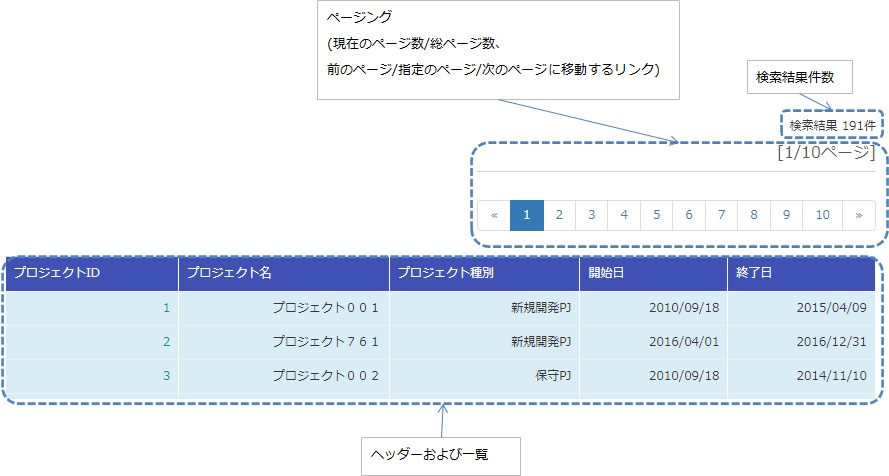
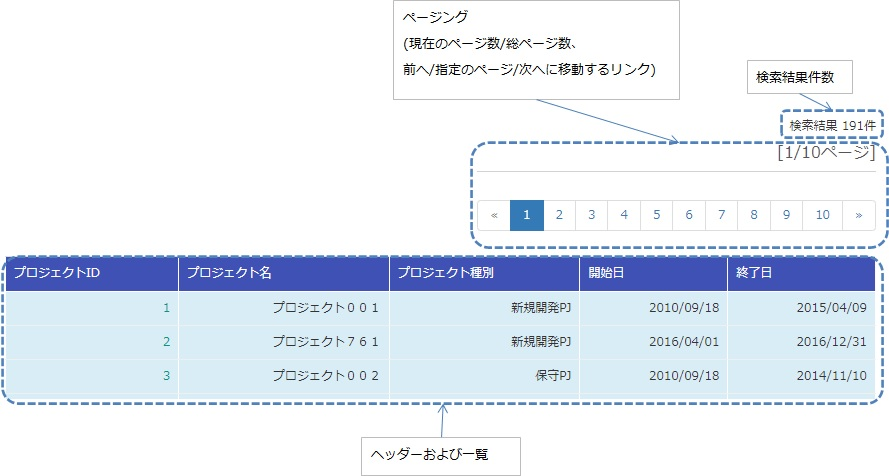
ページングの画面要素の説明を修正しました。前へ、次へ、に表示を統一しました。

diff --git a/ja/examples/03/index.rst b/ja/examples/03/index.rst
@@ -234,7 +234,7 @@ resultCountFragment属性の指定例を下記に示す。
 ページングの画面要素                       説明
 ====================================== ==========================================================================================
 現在のページ番号                          useCurrentPageNumber属性にtrueを指定した場合に表示される。
-前のページへ、次のページへ                  現在のページ番号から各画面要素が示すページに遷移可能な場合は、サブミット可能な状態で表示される。遷移不可の場合はラベルで表示される。
+最初、前へ、次へ、最後                     現在のページ番号から各画面要素が示すページに遷移可能な場合は、サブミット可能な状態で表示される。遷移不可の場合はラベルで表示される。「最初」はuseFirstSubmit属性にtrueを指定した場合に表示され、「最後」はuseLastSubmit属性にtrueを指定した場合に表示される。
 ページ番号                               ページ番号全体(1..n)は、総ページ数が2以上の場合のみ表示される。
 ====================================== ==========================================================================================
 
@@ -242,7 +242,7 @@ resultCountFragment属性の指定例を下記に示す。
 全ての属性の詳細については、 :ref:`ListSearchResult_Tag` を参照。
 
 * 各画面要素の使用有無
-* 各画面要素のラベル(前のページへ、次のページへなど)
+* 各画面要素のラベル(最初、次へなど)
 
  * 現在のページ番号はJSPフラグメントによる変更
  * ページ番号はページ番号をラベルに使用するため変更不可
@@ -273,7 +273,7 @@ resultCountFragment属性の指定例を下記に示す。
 
 |
 
-次に、検索結果が10件に減少した状態で、「前のページへ」を選択した場合のページングの表示と表示内容の説明を示す。\
+次に、検索結果が10件に減少した状態で、「前へ」を選択した場合のページングの表示と表示内容の説明を示す。\
 2ページ目に対する検索結果としてページングの各画面要素が表示される。
 
 |
@@ -287,8 +287,8 @@ resultCountFragment属性の指定例を下記に示す。
 ページングの画面要素                       表示内容の説明
 ====================================== ==========================================================================================
 現在のページ番号                          2ページ目が指定され、検索結果が20件以下のため、2/1ページとなる。
-前のページへ                             現在2ページ目で検索結果が10件のため、前のページに遷移可能となりリンクで表示される。
-次のページへ                             現在2ページ目で検索結果が10件のため、次のページに遷移不可となりラベルで表示される。
+前へ                                    現在2ページ目で検索結果が10件のため、前のページに遷移可能となりリンクで表示される。
+次へ                                    現在2ページ目で検索結果が10件のため、次のページに遷移不可となりラベルで表示される。
 ページ番号                               検索結果が10件で総ページ数が1のため、ページ番号は表示されない。
 ====================================== ==========================================================================================
 
@@ -296,7 +296,7 @@ resultCountFragment属性の指定例を下記に示す。
 サブミット要素を選択することで検索結果のページに遷移可能である。\
 (もちろん検索フォームから検索しなおせば、1ページ目からの検索結果となる)
 
-次に「前のページへ」を選択した後のページングの表示を示す。現在のページ番号と総ページ数の対応が正常な状態に戻る。
+次に「前へ」を選択した後のページングの表示を示す。現在のページ番号と総ページ数の対応が正常な状態に戻る。
 
 |
 
